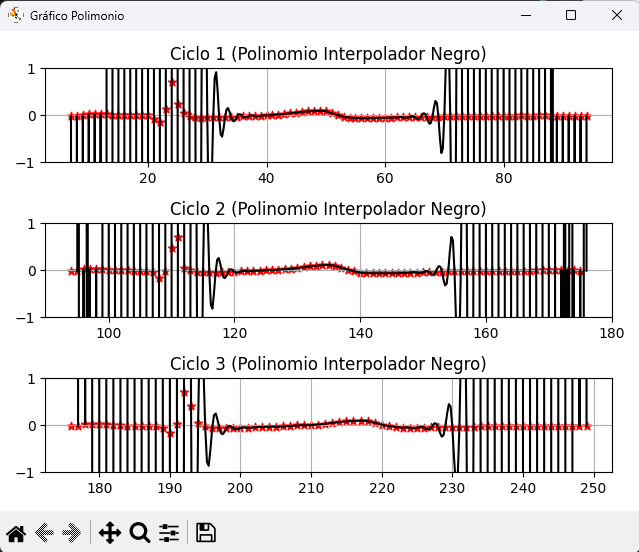
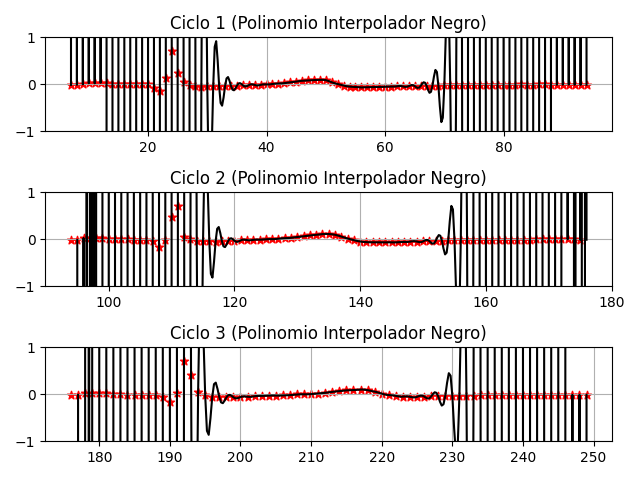
TP terminado, punto 5 agregado

diff --git a/main.py b/main.py
@@ -5,55 +5,73 @@ from scipy.interpolate import BarycentricInterpolator
 from scipy.interpolate import CubicSpline
 
 # Material proporcionado por la catedra.
-X= np.arange(0,250)
-Y= np.array([-0.00431000000000000,-0.0102400000000000,-0.00889000000000000,-0.00494000000000000,-0.00665000000000000,-0.00620000000000000,-0.00773000000000000,-0.0140200000000000,-0.0109600000000000,-0.00171000000000000,0.0229100000000000,0.0210200000000000,0.0327900000000000,0.0195900000000000,0.00216000000000000,0.00216000000000000,-0.000850000000000000,0.00126000000000000,0.00440000000000000,0.000180000000000000,-0.00337000000000000,-0.0769100000000000,-0.142360000000000,0.129470000000000,0.700000000000000,0.231980000000000,0.0554300000000000,-0.00674000000000000,-0.0381800000000000,-0.0467200000000000,-0.0440200000000000,-0.0456900000000000,-0.0372000000000000,-0.0391700000000000,-0.0363000000000000,-0.0280800000000000,-0.0206200000000000,-0.0176100000000000,-0.0143300000000000,-0.0125300000000000,-0.00216000000000000,0.00584000000000000,0.0156300000000000,0.0253400000000000,0.0417800000000000,0.0582200000000000,0.0752900000000000,0.0832000000000000,0.0921800000000000,0.0954200000000000,0.0876000000000000,0.0437500000000000,0.00593000000000000,-0.0274000000000000,-0.0490100000000000,-0.0587600000000000,-0.0659000000000000,-0.0611800000000000,-0.0579500000000000,-0.0579500000000000,-0.0529200000000000,-0.0500400000000000,-0.0426800000000000,-0.0449200000000000,-0.0388100000000000,-0.0376500000000000,-0.0367900000000000,-0.0278500000000000,-0.0298300000000000,-0.0276700000000000,-0.0222800000000000,-0.0215600000000000,-0.0172500000000000,-0.0183300000000000,-0.0153600000000000,-0.0128500000000000,-0.00970000000000000,-0.0152700000000000,-0.00629000000000000,-0.0116800000000000,-0.00979000000000000,-0.00467000000000000,-0.00503000000000000,-0.00395000000000000,-0.00548000000000000,-0.00782000000000000,-0.00256000000000000,-0.00305000000000000,-0.00422000000000000,-0.00988000000000000,-0.0104200000000000,-0.00602000000000000,-0.00916000000000000,-0.0127600000000000,-0.00773000000000000,-0.0136600000000000,0.0201300000000000,0.0230000000000000,0.0305500000000000,0.0271300000000000,0.00629000000000000,-0.00252000000000000,0.00139000000000000,-0.00166000000000000,-0.00449000000000000,-0.00822000000000000,-0.00759000000000000,-0.0350400000000000,-0.169360000000000,-0.0174700000000000,0.473130000000000,0.700000000000000,0.0385400000000000,0.00382000000000000,-0.0417800000000000,-0.0436600000000000,-0.0456900000000000,-0.0477100000000000,-0.0388100000000000,-0.0363000000000000,-0.0309100000000000,-0.0224200000000000,-0.0176500000000000,-0.0111900000000000,-0.00782000000000000,0.00162000000000000,0.00252000000000000,0.0132100000000000,0.0225100000000000,0.0330600000000000,0.0501300000000000,0.0637900000000000,0.0817600000000000,0.0965800000000000,0.110240000000000,0.111770000000000,0.0963600000000000,0.0573200000000000,0.0163500000000000,-0.0183300000000000,-0.0469000000000000,-0.0611800000000000,-0.0640600000000000,-0.0668500000000000,-0.0656800000000000,-0.0652300000000000,-0.0629400000000000,-0.0563300000000000,-0.0483400000000000,-0.0476200000000000,-0.0452400000000000,-0.0376500000000000,-0.0363000000000000,-0.0315400000000000,-0.0245700000000000,-0.0212000000000000,-0.0221000000000000,-0.0220100000000000,-0.0181500000000000,-0.0115000000000000,-0.0107800000000000,-0.00979000000000000,-0.00503000000000000,-0.00588000000000000,-0.00827000000000000,-0.00755000000000000,-0.00467000000000000,-0.00544000000000000,-0.000630000000000000,-0.00225000000000000,-0.00135000000000000,0.00449000000000000,0.00606000000000000,0.000310000000000000,-0.00368000000000000,-0.00898000000000000,-0.00872000000000000,-0.0129400000000000,0.0212000000000000,0.0175600000000000,0.0236300000000000,0.0190000000000000,0.00467000000000000,-0.00283000000000000,-0.00975000000000000,-0.00889000000000000,-0.0137900000000000,-0.00773000000000000,-0.0118600000000000,-0.0483400000000000,-0.168550000000000,0.0269500000000000,0.700000000000000,0.401070000000000,0.0429500000000000,-0.0172500000000000,-0.0592100000000000,-0.0608300000000000,-0.0661300000000000,-0.0633900000000000,-0.0579500000000000,-0.0522900000000000,-0.0409700000000000,-0.0332400000000000,-0.0263700000000000,-0.0267700000000000,-0.0245300000000000,-0.0178800000000000,-0.00413000000000000,-0.000360000000000000,0.00413000000000000,0.0168900000000000,0.0329700000000000,0.0533700000000000,0.0672000000000000,0.0839200000000000,0.0898500000000000,0.100940000000000,0.0877800000000000,0.0576800000000000,0.0139300000000000,-0.0152700000000000,-0.0332400000000000,-0.0497700000000000,-0.0526500000000000,-0.0542700000000000,-0.0469000000000000,-0.0460000000000000,-0.0451900000000000,-0.0322500000000000,-0.0344100000000000,-0.0319400000000000,-0.0353100000000000,-0.0317600000000000,-0.0237200000000000,-0.0244400000000000,-0.0207500000000000,-0.0163100000000000,-0.0106000000000000,-0.0115000000000000,-0.00970000000000000,-0.00916000000000000,-0.00943000000000000,-0.00485000000000000,-0.00719000000000000,-0.00880000000000000,-0.00818000000000000,-0.0111900000000000,-0.0109200000000000,-0.0109600000000000])
+X = np.arange(0, 250)
+Y = np.array([
+    -0.00431000000000000,-0.0102400000000000,-0.00889000000000000,-0.00494000000000000,-0.00665000000000000,-0.00620000000000000,-0.00773000000000000,-0.0140200000000000,-0.0109600000000000,-0.00171000000000000,0.0229100000000000,0.0210200000000000,0.0327900000000000,0.0195900000000000,0.00216000000000000,0.00216000000000000,-0.000850000000000000,0.00126000000000000,0.00440000000000000,0.000180000000000000,-0.00337000000000000,-0.0769100000000000,-0.142360000000000,0.129470000000000,0.700000000000000,0.231980000000000,0.0554300000000000,-0.00674000000000000,-0.0381800000000000,-0.0467200000000000,-0.0440200000000000,-0.0456900000000000,-0.0372000000000000,-0.0391700000000000,-0.0363000000000000,-0.0280800000000000,-0.0206200000000000,-0.0176100000000000,-0.0143300000000000,-0.0125300000000000,-0.00216000000000000,0.00584000000000000,0.0156300000000000,0.0253400000000000,0.0417800000000000,0.0582200000000000,0.0752900000000000,0.0832000000000000,0.0921800000000000,0.0954200000000000,0.0876000000000000,0.0437500000000000,0.00593000000000000,-0.0274000000000000,-0.0490100000000000,-0.0587600000000000,-0.0659000000000000,-0.0611800000000000,-0.0579500000000000,-0.0579500000000000,-0.0529200000000000,-0.0500400000000000,-0.0426800000000000,-0.0449200000000000,-0.0388100000000000,-0.0376500000000000,-0.0367900000000000,-0.0278500000000000,-0.0298300000000000,-0.0276700000000000,-0.0222800000000000,-0.0215600000000000,-0.0172500000000000,-0.0183300000000000,-0.0153600000000000,-0.0128500000000000,-0.00970000000000000,-0.0152700000000000,-0.00629000000000000,-0.0116800000000000,-0.00979000000000000,-0.00467000000000000,-0.00503000000000000,-0.00395000000000000,-0.00548000000000000,-0.00782000000000000,-0.00256000000000000,-0.00305000000000000,-0.00422000000000000,-0.00988000000000000,-0.0104200000000000,-0.00602000000000000,-0.00916000000000000,-0.0127600000000000,-0.00773000000000000,-0.0136600000000000,0.0201300000000000,0.0230000000000000,0.0305500000000000,0.0271300000000000,0.00629000000000000,-0.00252000000000000,0.00139000000000000,-0.00166000000000000,-0.00449000000000000,-0.00822000000000000,-0.00759000000000000,-0.0350400000000000,-0.169360000000000,-0.0174700000000000,0.473130000000000,0.700000000000000,0.0385400000000000,0.00382000000000000,-0.0417800000000000,-0.0436600000000000,-0.0456900000000000,-0.0477100000000000,-0.0388100000000000,-0.0363000000000000,-0.0309100000000000,-0.0224200000000000,-0.0176500000000000,-0.0111900000000000,-0.00782000000000000,0.00162000000000000,0.00252000000000000,0.0132100000000000,0.0225100000000000,0.0330600000000000,0.0501300000000000,0.0637900000000000,0.0817600000000000,0.0965800000000000,0.110240000000000,0.111770000000000,0.0963600000000000,0.0573200000000000,0.0163500000000000,-0.0183300000000000,-0.0469000000000000,-0.0611800000000000,-0.0640600000000000,-0.0668500000000000,-0.0656800000000000,-0.0652300000000000,-0.0629400000000000,-0.0563300000000000,-0.0483400000000000,-0.0476200000000000,-0.0452400000000000,-0.0376500000000000,-0.0363000000000000,-0.0315400000000000,-0.0245700000000000,-0.0212000000000000,-0.0221000000000000,-0.0220100000000000,-0.0181500000000000,-0.0115000000000000,-0.0107800000000000,-0.00979000000000000,-0.00503000000000000,-0.00588000000000000,-0.00827000000000000,-0.00755000000000000,-0.00467000000000000,-0.00544000000000000,-0.000630000000000000,-0.00225000000000000,-0.00135000000000000,0.00449000000000000,0.00606000000000000,0.000310000000000000,-0.00368000000000000,-0.00898000000000000,-0.00872000000000000,-0.0129400000000000,0.0212000000000000,0.0175600000000000,0.0236300000000000,0.0190000000000000,0.00467000000000000,-0.00283000000000000,-0.00975000000000000,-0.00889000000000000,-0.0137900000000000,-0.00773000000000000,-0.0118600000000000,-0.0483400000000000,-0.168550000000000,0.0269500000000000,0.700000000000000,0.401070000000000,0.0429500000000000,-0.0172500000000000,-0.0592100000000000,-0.0608300000000000,-0.0661300000000000,-0.0633900000000000,-0.0579500000000000,-0.0522900000000000,-0.0409700000000000,-0.0332400000000000,-0.0263700000000000,-0.0267700000000000,-0.0245300000000000,-0.0178800000000000,-0.00413000000000000,-0.000360000000000000,0.00413000000000000,0.0168900000000000,0.0329700000000000,0.0533700000000000,0.0672000000000000,0.0839200000000000,0.0898500000000000,0.100940000000000,0.0877800000000000,0.0576800000000000,0.0139300000000000,-0.0152700000000000,-0.0332400000000000,-0.0497700000000000,-0.0526500000000000,-0.0542700000000000,-0.0469000000000000,-0.0460000000000000,-0.0451900000000000,-0.0322500000000000,-0.0344100000000000,-0.0319400000000000,-0.0353100000000000,-0.0317600000000000,-0.0237200000000000,-0.0244400000000000,-0.0207500000000000,-0.0163100000000000,-0.0106000000000000,-0.0115000000000000,-0.00970000000000000,-0.00916000000000000,-0.00943000000000000,-0.00485000000000000,-0.00719000000000000,-0.00880000000000000,-0.00818000000000000,-0.0111900000000000,-0.0109200000000000,-0.0109600000000000
+])
 
 
-def Polinomio_Coeficientes(X: list, Y:list):
-    return BarycentricInterpolator(X,Y)
+def Polinomio_Coeficientes(X: list, Y: list):
+    return BarycentricInterpolator(X, Y)
 
-#punto 5.1
-def integrar_trap(f: function, a:float, b:float, n: int): ## integro usando trapecios
+
+# punto 5.1
+def integrar_trap(f: function, a: float, b: float, n: int):  # integro usando trapecios
     dx = (b-a)/n
     sum = f(a) + f(b)
     initial_a = a
 
     for i in range(n-1):
-        a=a+dx
+        a = a + dx
         sum += 2*f(a)
 
     sum = sum*dx/2
 
-    ## seguí nomás la formula int f ~ dx/2 [f(a) + 2f(a+dx*i) + f(b)]
+    # seguí nomás la formula int f ~ dx/2 [f(a) + 2f(a+dx*i) + f(b)]
 
     print(f"Area (Trapecios) de la función es ~ {sum} | a={initial_a} | b={b} | n={n}")
 
     return sum
 
-#punto 5.2
-def integrar_simpson(f: function, a:float, b:float): ## integro usando trapecios
 
-    ## seguí nomás la formula para simpson 1/3
+def simpson(x0, x1, x2, y0, y1, y2):
+    h = x2 - x0
+    return (h / 6) * (y0 + 4*y1 + y2)
 
-    sum = ((b-a)/6)*(f(a) + 4*f((a+b)/2) + f(b))
 
-    print(f"Area (Simpson 1/3) de la función es ~ {sum} | a={a} | b={b}")
+# punto 5.2
+def integrar_simpson(X: list, Y: list):
+    sum = 0
+    indice = 0
 
+    # la idea es tomar de a 3 puntos, mandarlo a simpson para calcular esa area, y sumarlo a la area total.
+    # así hasta quedarse sin trios.
+    # (a,b,c) -> (c,d,e) -> (c,d, ?) stop!
+
+    while indice + 2 < len(X):
+        sum += simpson(
+            X[indice], X[indice+1], X[indice+2],
+            Y[indice], Y[indice+1], Y[indice+2]
+        )
+        indice += 2
+
+    print(f"Área (Simpson 1/3) de la función es ~ {sum}")
     return sum
 
-#punto 2
-def graficar(X:list, Y:list):
-    fig, (ax1,ax2,ax3) = pl.subplots(3,1)
 
-    ax1.plot(np.arange(7,94), Y[7:94], color="red", marker="*", markerfacecolor="red")
+# punto 2
+def graficar(X: list, Y: list):
+    fig, (ax1, ax2, ax3) = pl.subplots(3, 1)
+
+    ax1.plot(np.arange(7, 95), Y[7:95], color="red", marker="*", markerfacecolor="red")
     ax1.grid(True)
     ax1.autoscale(True)
 
-    ax2.plot(np.arange(94,176), Y[94:176], color="green", marker="*", markerfacecolor="red")
+    ax2.plot(np.arange(94, 177), Y[94:177], color="green", marker="*", markerfacecolor="red")
     ax2.grid(True)
     ax2.autoscale(True)
 
-    ax3.plot(np.arange(176,250), Y[176:250], color="blue", marker="*", markerfacecolor="red")
+    ax3.plot(np.arange(176, 250), Y[176:250], color="blue", marker="*", markerfacecolor="red")
     ax3.grid(True)
     ax3.autoscale(True)
 
@@ -61,37 +79,37 @@ def graficar(X:list, Y:list):
     ax2.set_title("Ciclo 2")
     ax3.set_title("Ciclo 3")
 
-    fig.canvas.manager.set_window_title("Gráfico Inicial") # cualquiera este comando, re largo
-    pl.tight_layout() # esto evita q se peguen los títulos, no sé muy bien qué hace lol.
+    fig.canvas.manager.set_window_title("Gráfico Inicial")
+    pl.tight_layout()
     pl.show()
 
-def graficar2(f1:function, f2:function, f3:function):
 
-    fig, (ax1,ax2,ax3) = pl.subplots(3,1)
+def graficar2(f1: function, f2: function, f3: function):
+    fig, (ax1, ax2, ax3) = pl.subplots(3, 1)
 
-    ax1.scatter(X[7:95],Y[7:95], marker="*", color="red")
+    ax1.scatter(X[7:95], Y[7:95], marker="*", color="red")
     ax1.grid(True)
 
-    x1 = np.linspace(7,94,4*(94-7)+1) # genero x de 7 a 94 inclusive, con 3 entre cada numero entero (ej: 0; 0,25; 0,5; 0,75; 1)
-    ax1.plot(x1, f1(x1), color="black") #se rompe todo, entre los puntos el polinomio se dispara
+    x1 = np.linspace(7, 94, 4*(94-7)+1)
+    ax1.plot(x1, f1(x1), color="black")
 
-    ax1.set_ylim(-1,1)
+    ax1.set_ylim(-1, 1)
 
-    ax2.scatter(X[94:176],Y[94:176], marker="*" , color="red")
+    ax2.scatter(X[94:177], Y[94:177], marker="*", color="red")
     ax2.grid(True)
 
-    x2 = np.linspace(95,176, 4*(176-95)+1)
+    x2 = np.linspace(94, 176, 4*(176-94)+1)
     ax2.plot(x2, f2(x2), color="black")
 
-    ax2.set_ylim(-1,1)
+    ax2.set_ylim(-1, 1)
 
-    ax3.scatter(X[176:250],Y[176:250], marker="*" , color="red")
+    ax3.scatter(X[176:250], Y[176:250], marker="*", color="red")
     ax3.grid(True)
 
-    x3 = np.linspace(177,249, 4*(249-177)+1)
+    x3 = np.linspace(176, 249, 4*(249-176)+1)
     ax3.plot(x3, f3(x3), color="black")
 
-    ax3.set_ylim(-1,1)
+    ax3.set_ylim(-1, 1)
 
     ax1.set_title("Ciclo 1 (Polinomio Interpolador Negro)")
     ax2.set_title("Ciclo 2 (Polinomio Interpolador Negro)")
@@ -101,24 +119,24 @@ def graficar2(f1:function, f2:function, f3:function):
     pl.tight_layout()
     pl.show()
 
-def graficar3(sp1,sp2,sp3):
-    fig, (ax1,ax2,ax3) = pl.subplots(3,1)
+
+def graficar3(sp1, sp2, sp3):
+    fig, (ax1, ax2, ax3) = pl.subplots(3, 1)
 
     ax1.scatter(X[7:95], Y[7:95], marker="*", color="red")
     ax1.grid(True)
     x1 = np.linspace(7, 94, 4*(94-7)+1)
     ax1.plot(x1, sp1(x1), color="black")
 
-    ax2.scatter(X[95:177], Y[95:177], marker="*", color="red")
+    ax2.scatter(X[94:177], Y[94:177], marker="*", color="red")
     ax2.grid(True)
-    x2 = np.linspace(95, 176, 4*(176-95)+1)
+    x2 = np.linspace(94, 176, 4*(176-94)+1)
     ax2.plot(x2, sp2(x2), color="black")
 
-    ax3.scatter(X[177:250], Y[177:250], marker="*", color="red")
+    ax3.scatter(X[176:250], Y[176:250], marker="*", color="red")
     ax3.grid(True)
-    x3 = np.linspace(177, 249, 4*(249-177)+1)
+    x3 = np.linspace(176, 249, 4*(249-176)+1)
     ax3.plot(x3, sp3(x3), color="black")
-    
 
     ax1.set_title("Spline C1")
     ax2.set_title("Spline C2")
@@ -128,52 +146,83 @@ def graficar3(sp1,sp2,sp3):
     pl.tight_layout()
     pl.show()
 
-def crearSplines(X,Y):
-    return (CubicSpline(X[7:95],Y[7:95]), CubicSpline(X[95:177],Y[95:177]), CubicSpline(X[177:250],Y[177:250]))
 
-def auxiliar(x: int): #lit, solamente devuelvo el valor paralelo a X en la lista Y
+def crearSplines(X, Y):
+    return (
+        CubicSpline(X[7:95], Y[7:95]),
+        CubicSpline(X[94:177], Y[94:177]),
+        CubicSpline(X[176:250], Y[176:250])
+    )
+
+
+def auxiliar(x: int):  # lit, solamente devuelvo el valor paralelo a X en la lista Y
     return Y[x]
 
-##########################################
-#1 hecho
-#2 hecho
-#
-#3. Necesito interpolar los ~ 87 puntos por ciclo completo.
-#   Eso sería un polinomio de grado <= 86
-#   Ni en pedo uso Vandermonde o algo así, mejor uso numpy
 
-#5.1
-#5.2 hecho
+##########################################
+# 1 hecho
+# 2 hecho
+#
+# 3. Necesito interpolar los ~ 87 puntos por ciclo completo.
+#    Eso sería un polinomio de grado <= 86
+#    Ni en pedo uso Vandermonde o algo así, mejor uso numpy
+
+# 5.1
+# 5.2 hecho
 
 # Buscando los ciclos
 # 1: (7, 94)
-# 2: (94 , 176)
-# 3: (176 , 250)
+# 2: (94, 176)
+# 3: (176, 249)
 
 if __name__ == "__main__":
-    coef1 = Polinomio_Coeficientes(X[7:95],Y[7:95]) #7 hasta 94
-    coef2 = Polinomio_Coeficientes(X[95:177],Y[95:177])
-    coef3 = Polinomio_Coeficientes(X[177:250],Y[177:250]) # 177 hasta 249
+    coef1 = Polinomio_Coeficientes(X[7:95], Y[7:95])
+    coef2 = Polinomio_Coeficientes(X[94:177], Y[94:177])
+    coef3 = Polinomio_Coeficientes(X[176:250], Y[176:250])
 
-    #graficar(X,Y) # 2
-    #graficar2(coef1,coef2,coef3) # 3
+    #2
+    graficar(X, Y)
 
-    (sp1, sp2, sp3) = crearSplines(X,Y) #4
-    #graficar3(sp1,sp2,sp3)
+    #3
+    graficar2(coef1, coef2, coef3)
 
-    #5
-    #primer datos originales
-    int1 = np.trapezoid(Y[7:95],X[7:95],dx=1)
-    int2 = np.trapezoid(Y[95:177],X[95:177],dx=1)
-    int3 = np.trapezoid(Y[177:250],X[177:250],dx=1)
+    #4
+    (sp1, sp2, sp3) = crearSplines(X, Y)
+    graficar3(sp1, sp2, sp3)
 
-    int_prom = (int1+int2+int3)/3
-    print(f"5.1.1 El promedio de la integral de los 3 ciclos fue {int_prom}")
-
-    #Ahora con splines
-    int1 = integrar_trap(sp1,7,94, (94-7)*4)
-    int2 = integrar_trap(sp2,95,176, (176-95)*4)
-    int3 = integrar_trap(sp3,177,249, (249-177)*4)
+    # 5
+    # primer datos originales
+    int1 = np.trapezoid(Y[7:95], X[7:95], dx=1)
+    int2 = np.trapezoid(Y[94:177], X[94:177], dx=1)
+    int3 = np.trapezoid(Y[176:250], X[176:250], dx=1)
 
     int_prom = (int1+int2+int3)/3
-    print(f"5.1.2 El promedio de la integral de los 3 ciclos fue {int_prom}")
+    print(f"\t>> 5.1.1 El promedio de la integral de los 3 ciclos fue {int_prom}")
+
+    # Ahora con splines
+    int1 = integrar_trap(sp1, 7, 94, (94-7)*4)
+    int2 = integrar_trap(sp2, 94, 176, (176-94)*4)
+    int3 = integrar_trap(sp3, 176, 249, (249-176)*4)
+
+    int_prom = (int1+int2+int3)/3
+    print(f"\t>> 5.1.2 El promedio de la integral de splines fue     {int_prom}")
+
+    int1 = integrar_simpson(X[7:95], Y[7:95])
+    int2 = integrar_simpson(X[94:177], Y[94:177])
+    int3 = integrar_simpson(X[176:250], Y[176:250])
+
+    int_prom = (int1+int2+int3)/3
+    print(f"\t>> 5.2.1 El promedio de la integral de los 3 ciclos fue {int_prom}")
+
+    # para el 5.2.2 uso los valores originales + splines, creo
+    x_ = np.linspace(7, 94, 4*(94-7)+1)
+    int1 = integrar_simpson(x_, sp1(x_))
+
+    x_ = np.linspace(94, 176, 4*(176-94)+1)
+    int2 = integrar_simpson(x_, sp2(x_))
+
+    x_ = np.linspace(176, 249, 4*(249-176)+1)
+    int3 = integrar_simpson(x_, sp3(x_))
+
+    int_prom = (int1+int2+int3)/3
+    print(f"\t>> 5.2.2 El promedio de la integral de los 3 ciclos fue {int_prom}")

diff --git a/README.md b/README.md
@@ -1,9 +1,12 @@
 # ***¡Hola!*** #
-![imagen de un gráfico](./src/gráfico.png)
+![imagen de un gráfico](./src/gráfico1.png)
 <p style="text-align:center; font-style: italic;">Gráfico de los 3 ciclos.</p>
 
 ![imagen de un gráfico de polinomios interpoladores](./src/gráfico2.png)
 <p style="text-align:center; font-style: italic;">Gráfico de los 3 ciclos con su respectivo polinomio interpolador.</p>
+
+![imagen de un gráfico de splines interpoladores](./src/gráfico3.png)
+<p style="text-align:center; font-style: italic;">Gráfico de los 3 ciclos interpolados con splines</p>
 
 ## Pregunta ##
 *6. Escribir las 2 principales dificultades que tuvo y 2 cosas que haya aprendido realizando 
